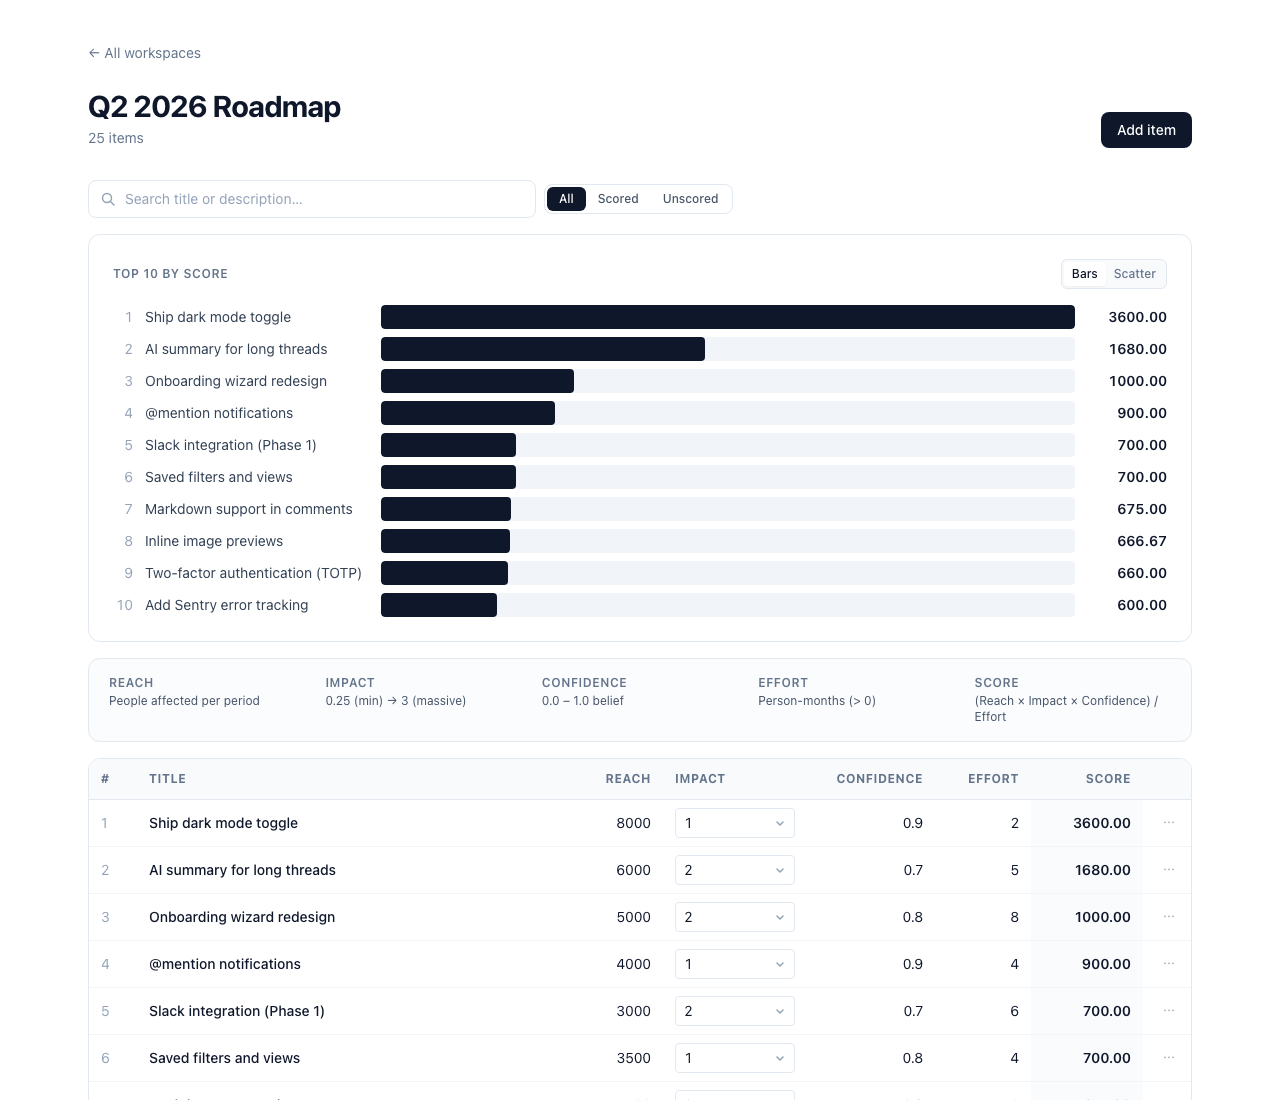
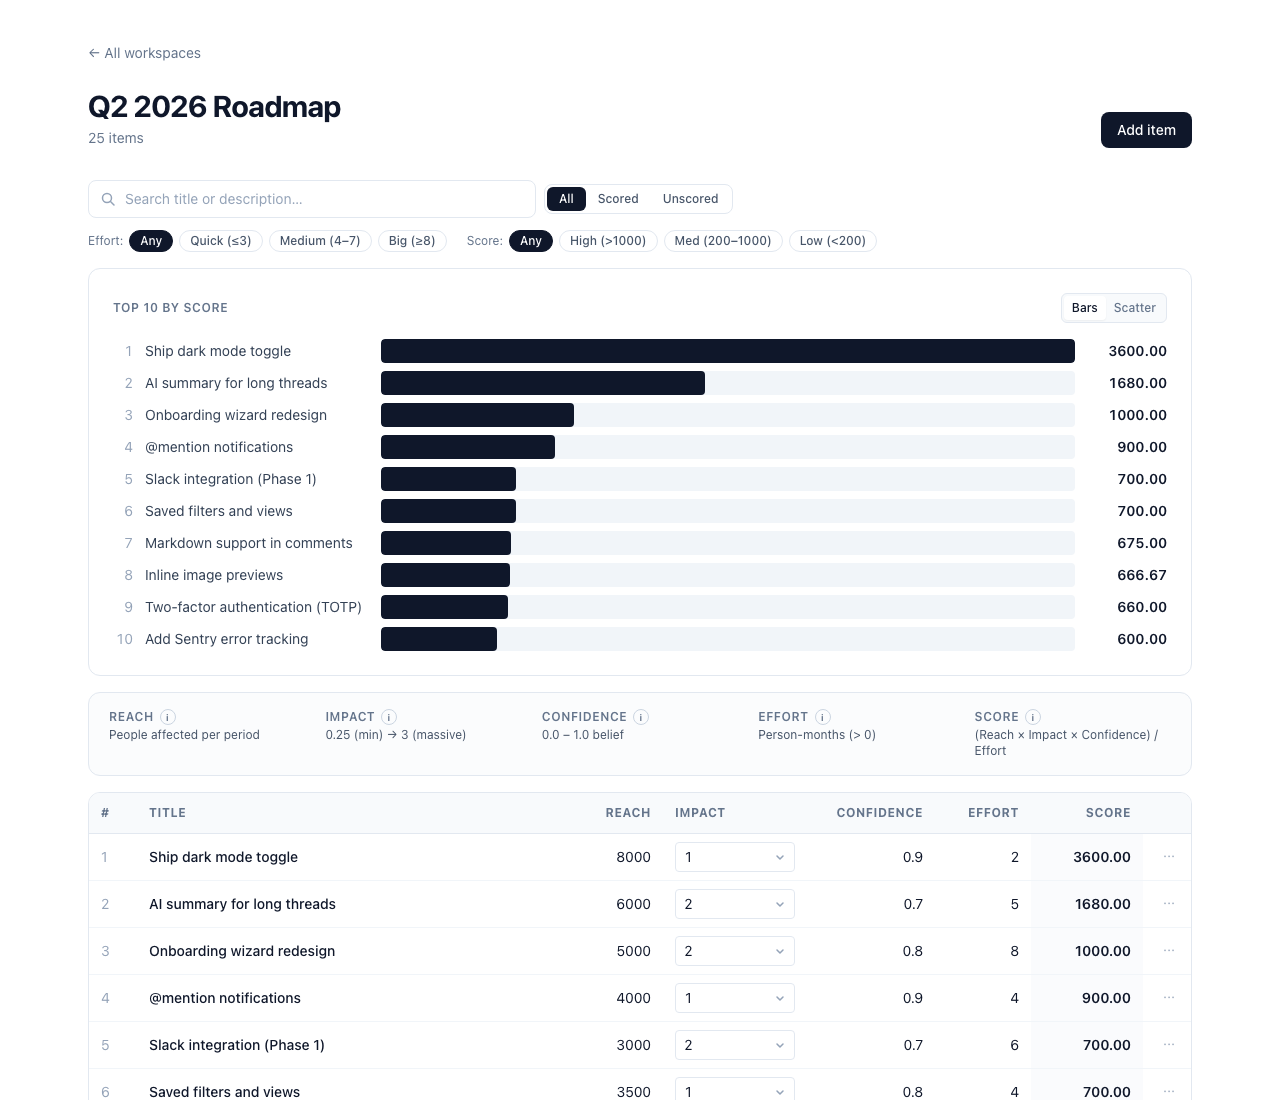
docs: add bucket-filter + tooltip screenshots; sync Status table
Two new shots in the README gallery:
- 05-filter-buckets.png: Effort + Score chip filters active. With
  Quick (≤3) and High (>1000) both on, the 25-item board narrows to
  the single 'Ship dark mode' outlier — a clean visual for what the
  chip filters do.
- 06-tooltip-impact.png: scatter view + Impact (i) tooltip open
  showing the full 0.25→3 scale. Demonstrates the inline education
  the metric legend now offers without leaving the page.

Status table updated:
- Self-host Docker image: ⏳ → ✅, with the actual one-liner.
- Added 'Visualization & filtering' row covering bars + scatter +
  the four filter dimensions and URL-synced state.
- Added 'Metric tooltips' row.

capture-screenshots.mjs grew an afterLoad hook for shots that need
interaction before the snap (the tooltip case hovers the Impact (i)
button and waits for the portal to render before screenshotting).

diff --git a/README.md b/README.md
@@ -32,7 +32,15 @@ The board at a glance — filter bar, top-10 bar chart, and the table:
     <td><a href="./docs/screenshots/03-workspaces-list.png"><img src="./docs/screenshots/03-workspaces-list.png" alt="Workspaces list"></a></td>
   </tr>
   <tr>
-    <td colspan="2"><strong>Live filtering — search + status with URL state</strong><br><sub>e.g. <code>?q=integration&status=scored&view=scatter</code> survives refresh and is shareable</sub></td>
+    <td width="50%"><strong>Effort / Score bucket chips</strong><br><sub>Quick (≤3) + High (&gt;1000) narrows 25 items to the one standout</sub></td>
+    <td width="50%"><strong>Inline (i) tooltips on every metric</strong><br><sub>Hover, focus, or tap for the RICE-specific scale (0.25 → 3 etc.)</sub></td>
+  </tr>
+  <tr>
+    <td><a href="./docs/screenshots/05-filter-buckets.png"><img src="./docs/screenshots/05-filter-buckets.png" alt="Bucket filter chips active"></a></td>
+    <td><a href="./docs/screenshots/06-tooltip-impact.png"><img src="./docs/screenshots/06-tooltip-impact.png" alt="Impact tooltip showing the 5-point RICE scale"></a></td>
+  </tr>
+  <tr>
+    <td colspan="2"><strong>Live text search — title + description with URL state</strong><br><sub>e.g. <code>?q=integration&status=scored&view=scatter</code> survives refresh and is shareable</sub></td>
   </tr>
   <tr>
     <td colspan="2"><a href="./docs/screenshots/04-filter-search.png"><img src="./docs/screenshots/04-filter-search.png" alt="Live filter narrowing 25 items to one match"></a></td>
@@ -61,10 +69,12 @@ Alpha, built in the open. **Live and deployed** at [frameboard.pages.dev](https:
 | Database schema | ✅ Users, workspaces, items, RICE scores |
 | Backend API | ✅ Full CRUD + RICE upsert (44 pytest tests) |
 | Frontend workspace list + board | ✅ Create, score, edit (modal + inline), delete |
+| Visualization & filtering | ✅ Top-10 bars + Effort × Score scatter, search / status / effort / score chips, URL-synced state |
+| Metric tooltips | ✅ Inline (i) on Reach / Impact / Confidence / Effort / Score |
 | End-to-end test suite | ✅ 5 Playwright scenarios, green in CI |
 | Production deployment | ✅ Cloudflare Pages + Render + Neon |
+| Self-host Docker image | ✅ `docker compose -f docker-compose.selfhost.yml up --build` brings up the full stack |
 | Auth | ⏳ Single-user hardcoded for MVP |
-| Self-host Docker image | ⏳ Planned |
 | Multi-framework (ICE / MoSCoW / Kano) | ⏳ RICE only for now |
 
 ## Quick start
